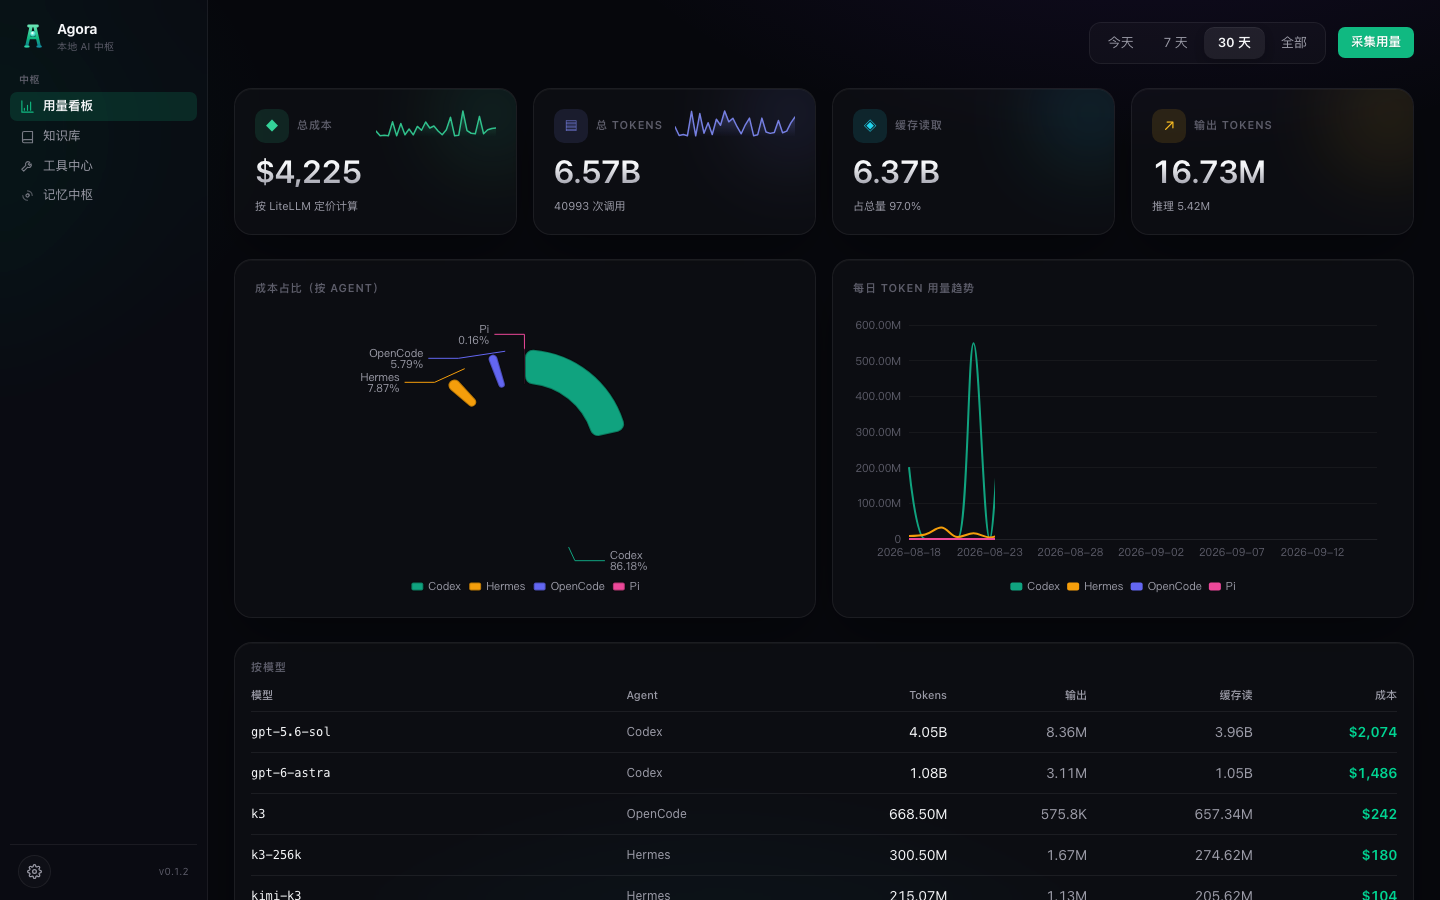
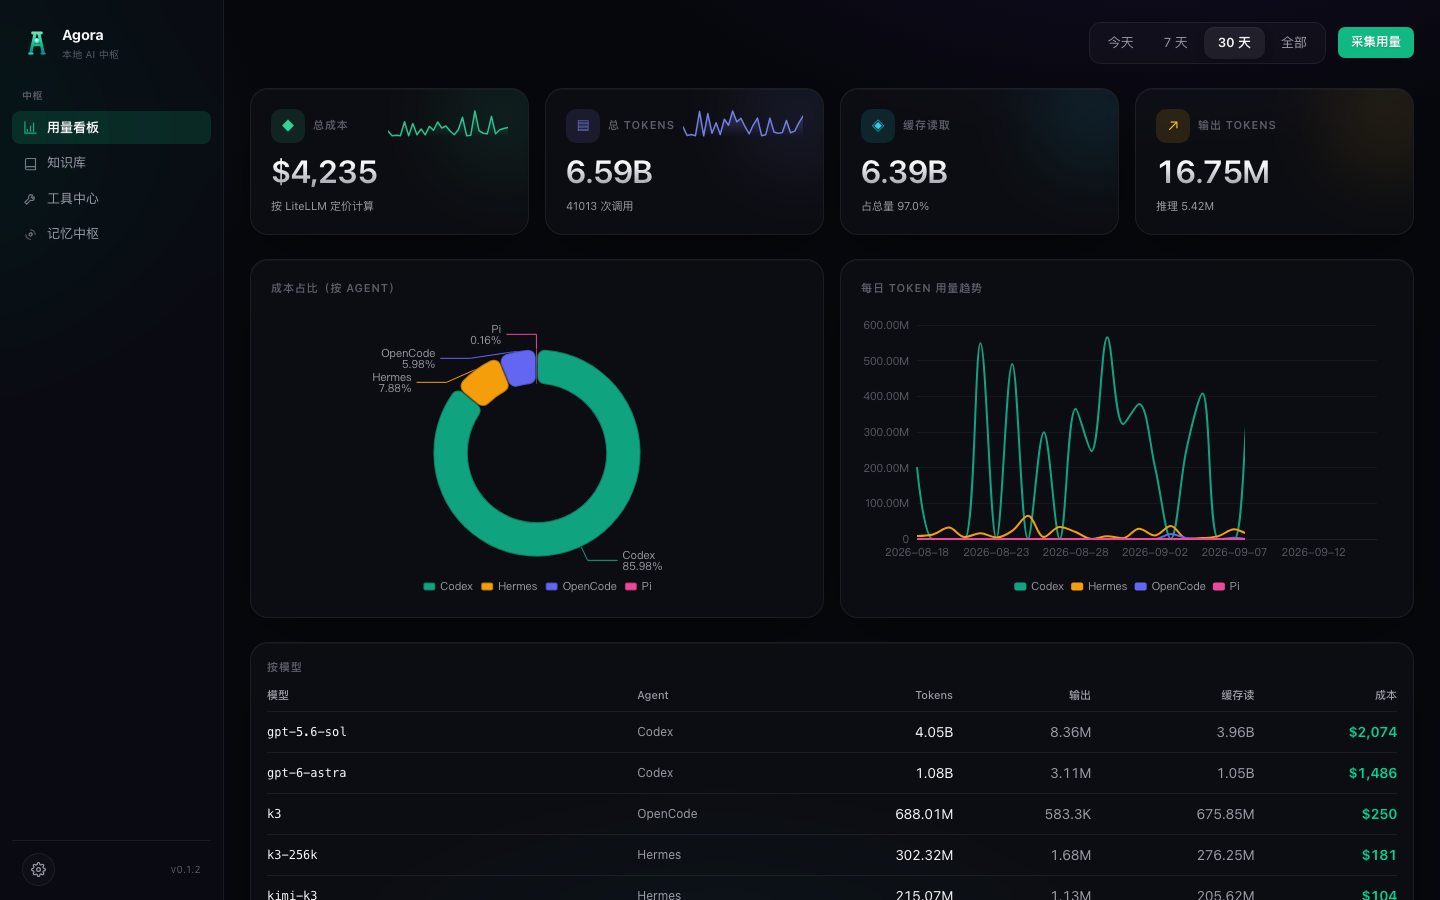
fix: roomier sidebar (224px + spacing) + settings popover opens upward
- sidebar too cramped: widened to 224px, relaxed item padding/gaps,
  brand section breathing room
- settings gear in the footer was unresponsive: its popover opened
  downward and got clipped by the viewport — now opens upward
  (placement='top') and stays fully visible
- new hero screenshots with the roomier sidebar
- bump 0.1.3 (first release exerciseable by the in-app updater)

diff --git a/apps/web/src/index.css b/apps/web/src/index.css
@@ -579,9 +579,9 @@ body::before {
 .sidebar {
   display: flex;
   flex-direction: column;
-  width: 208px;
+  width: 224px;
   flex-shrink: 0;
-  padding: 14px 10px 12px;
+  padding: 18px 12px 14px;
   background: color-mix(in srgb, var(--color-panel) 60%, transparent);
   border-right: 1px solid var(--color-edge);
   backdrop-filter: blur(24px) saturate(1.4);
@@ -590,11 +590,11 @@ body::before {
 .sidebar-brand {
   display: flex;
   align-items: center;
-  gap: 9px;
-  padding: 4px 8px 12px;
+  gap: 10px;
+  padding: 6px 10px 18px;
 }
 .sidebar-brand-name {
-  font-size: 14px;
+  font-size: 14.5px;
   font-weight: 700;
   letter-spacing: -0.01em;
   color: var(--color-ink);
@@ -603,16 +603,17 @@ body::before {
   font-size: 10px;
   color: var(--color-ink-faint);
   letter-spacing: 0.02em;
+  margin-top: 1px;
 }
 
 .sidebar-nav {
   display: flex;
   flex-direction: column;
-  gap: 1px;
+  gap: 2px;
   flex: 1;
 }
 .sidebar-section {
-  padding: 6px 9px 4px;
+  padding: 8px 10px 6px;
   font-size: 10px;
   font-weight: 600;
   letter-spacing: 0.06em;
@@ -622,11 +623,11 @@ body::before {
 .sidebar-item {
   display: flex;
   align-items: center;
-  gap: 8px;
+  gap: 9px;
   width: 100%;
-  padding: 5px 9px;
-  border-radius: 7px;
-  font-size: 12.5px;
+  padding: 7px 10px;
+  border-radius: 8px;
+  font-size: 13px;
   color: var(--color-ink-dim);
   text-align: left;
   transition: background 120ms ease, color 120ms ease;
@@ -656,7 +657,8 @@ body::before {
   display: flex;
   align-items: center;
   justify-content: space-between;
-  padding: 10px 8px 0;
+  padding: 12px 10px 0;
+  margin-top: 8px;
   border-top: 1px solid var(--color-edge);
 }
 .sidebar-version {

diff --git a/apps/web/src/settings/SettingsPanel.tsx b/apps/web/src/settings/SettingsPanel.tsx
@@ -24,7 +24,7 @@ function Swatch({ color, active, onClick }: { color: string; active: boolean; on
   );
 }
 
-export function SettingsPanel() {
+export function SettingsPanel({ placement = 'bottom' }: { placement?: 'bottom' | 'top' }) {
   const { settings, update, liveRates } = useSettings();
   const [open, setOpen] = useState(false);
   const ref = useRef<HTMLDivElement>(null);
@@ -50,6 +50,8 @@ export function SettingsPanel() {
           ? '缓存'
           : '兜底';
 
+  const panelPos = placement === 'top' ? 'bottom-full mb-2' : 'top-full mt-2';
+
   return (
     <div ref={ref} className="relative">
       <button
@@ -65,7 +67,7 @@ export function SettingsPanel() {
       </button>
 
       {open && (
-        <div className="card-pop dialog-panel absolute right-0 top-11 z-50 w-72 p-4">
+        <div className={`card-pop dialog-panel absolute right-0 ${panelPos} z-50 w-72 p-4`}>
           <div className="section-title mb-3">外观</div>
           <div className="mb-3 flex gap-0.5 rounded-xl border border-[var(--color-edge)] bg-[var(--color-panel)] p-1">
             {(

diff --git a/apps/web/src/components/Sidebar.tsx b/apps/web/src/components/Sidebar.tsx
@@ -73,7 +73,7 @@ export function Sidebar({ page, onNavigate }: { page: PageId; onNavigate: (p: Pa
       </nav>
 
       <div className="sidebar-footer">
-        <SettingsPanel />
+        <SettingsPanel placement="top" />
         <span className="sidebar-version">v0.1.2</span>
       </div>
     </aside>
